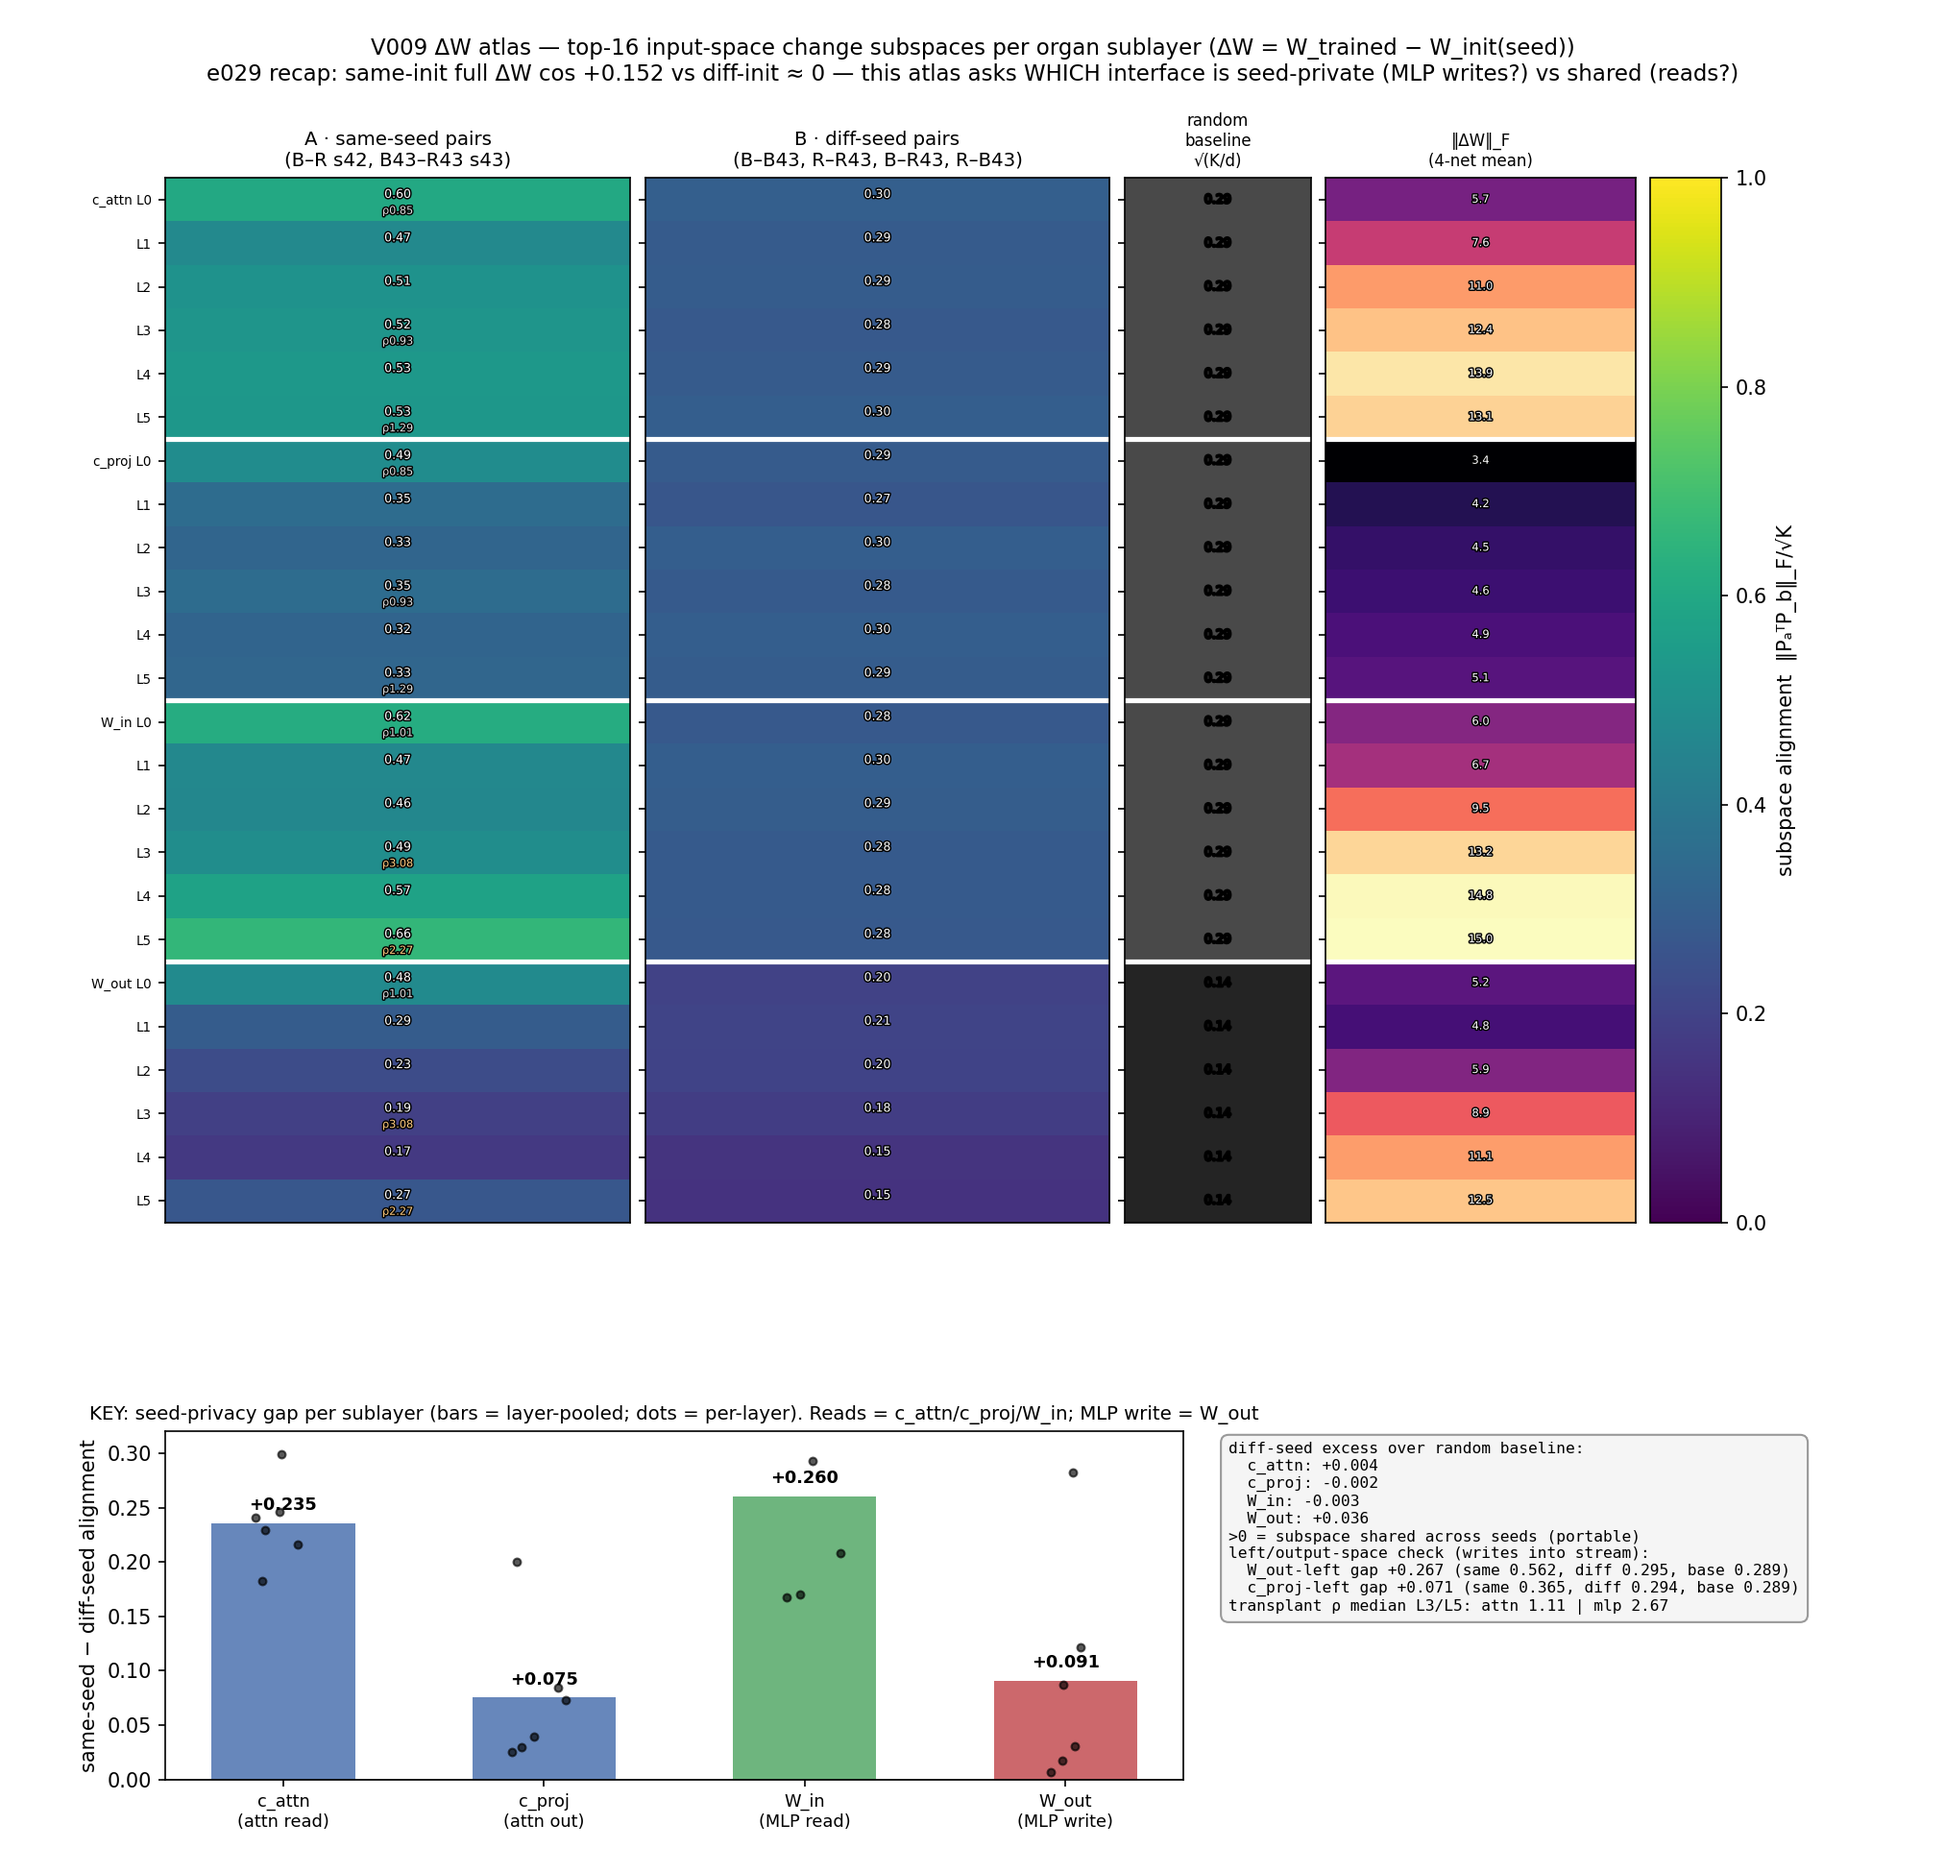
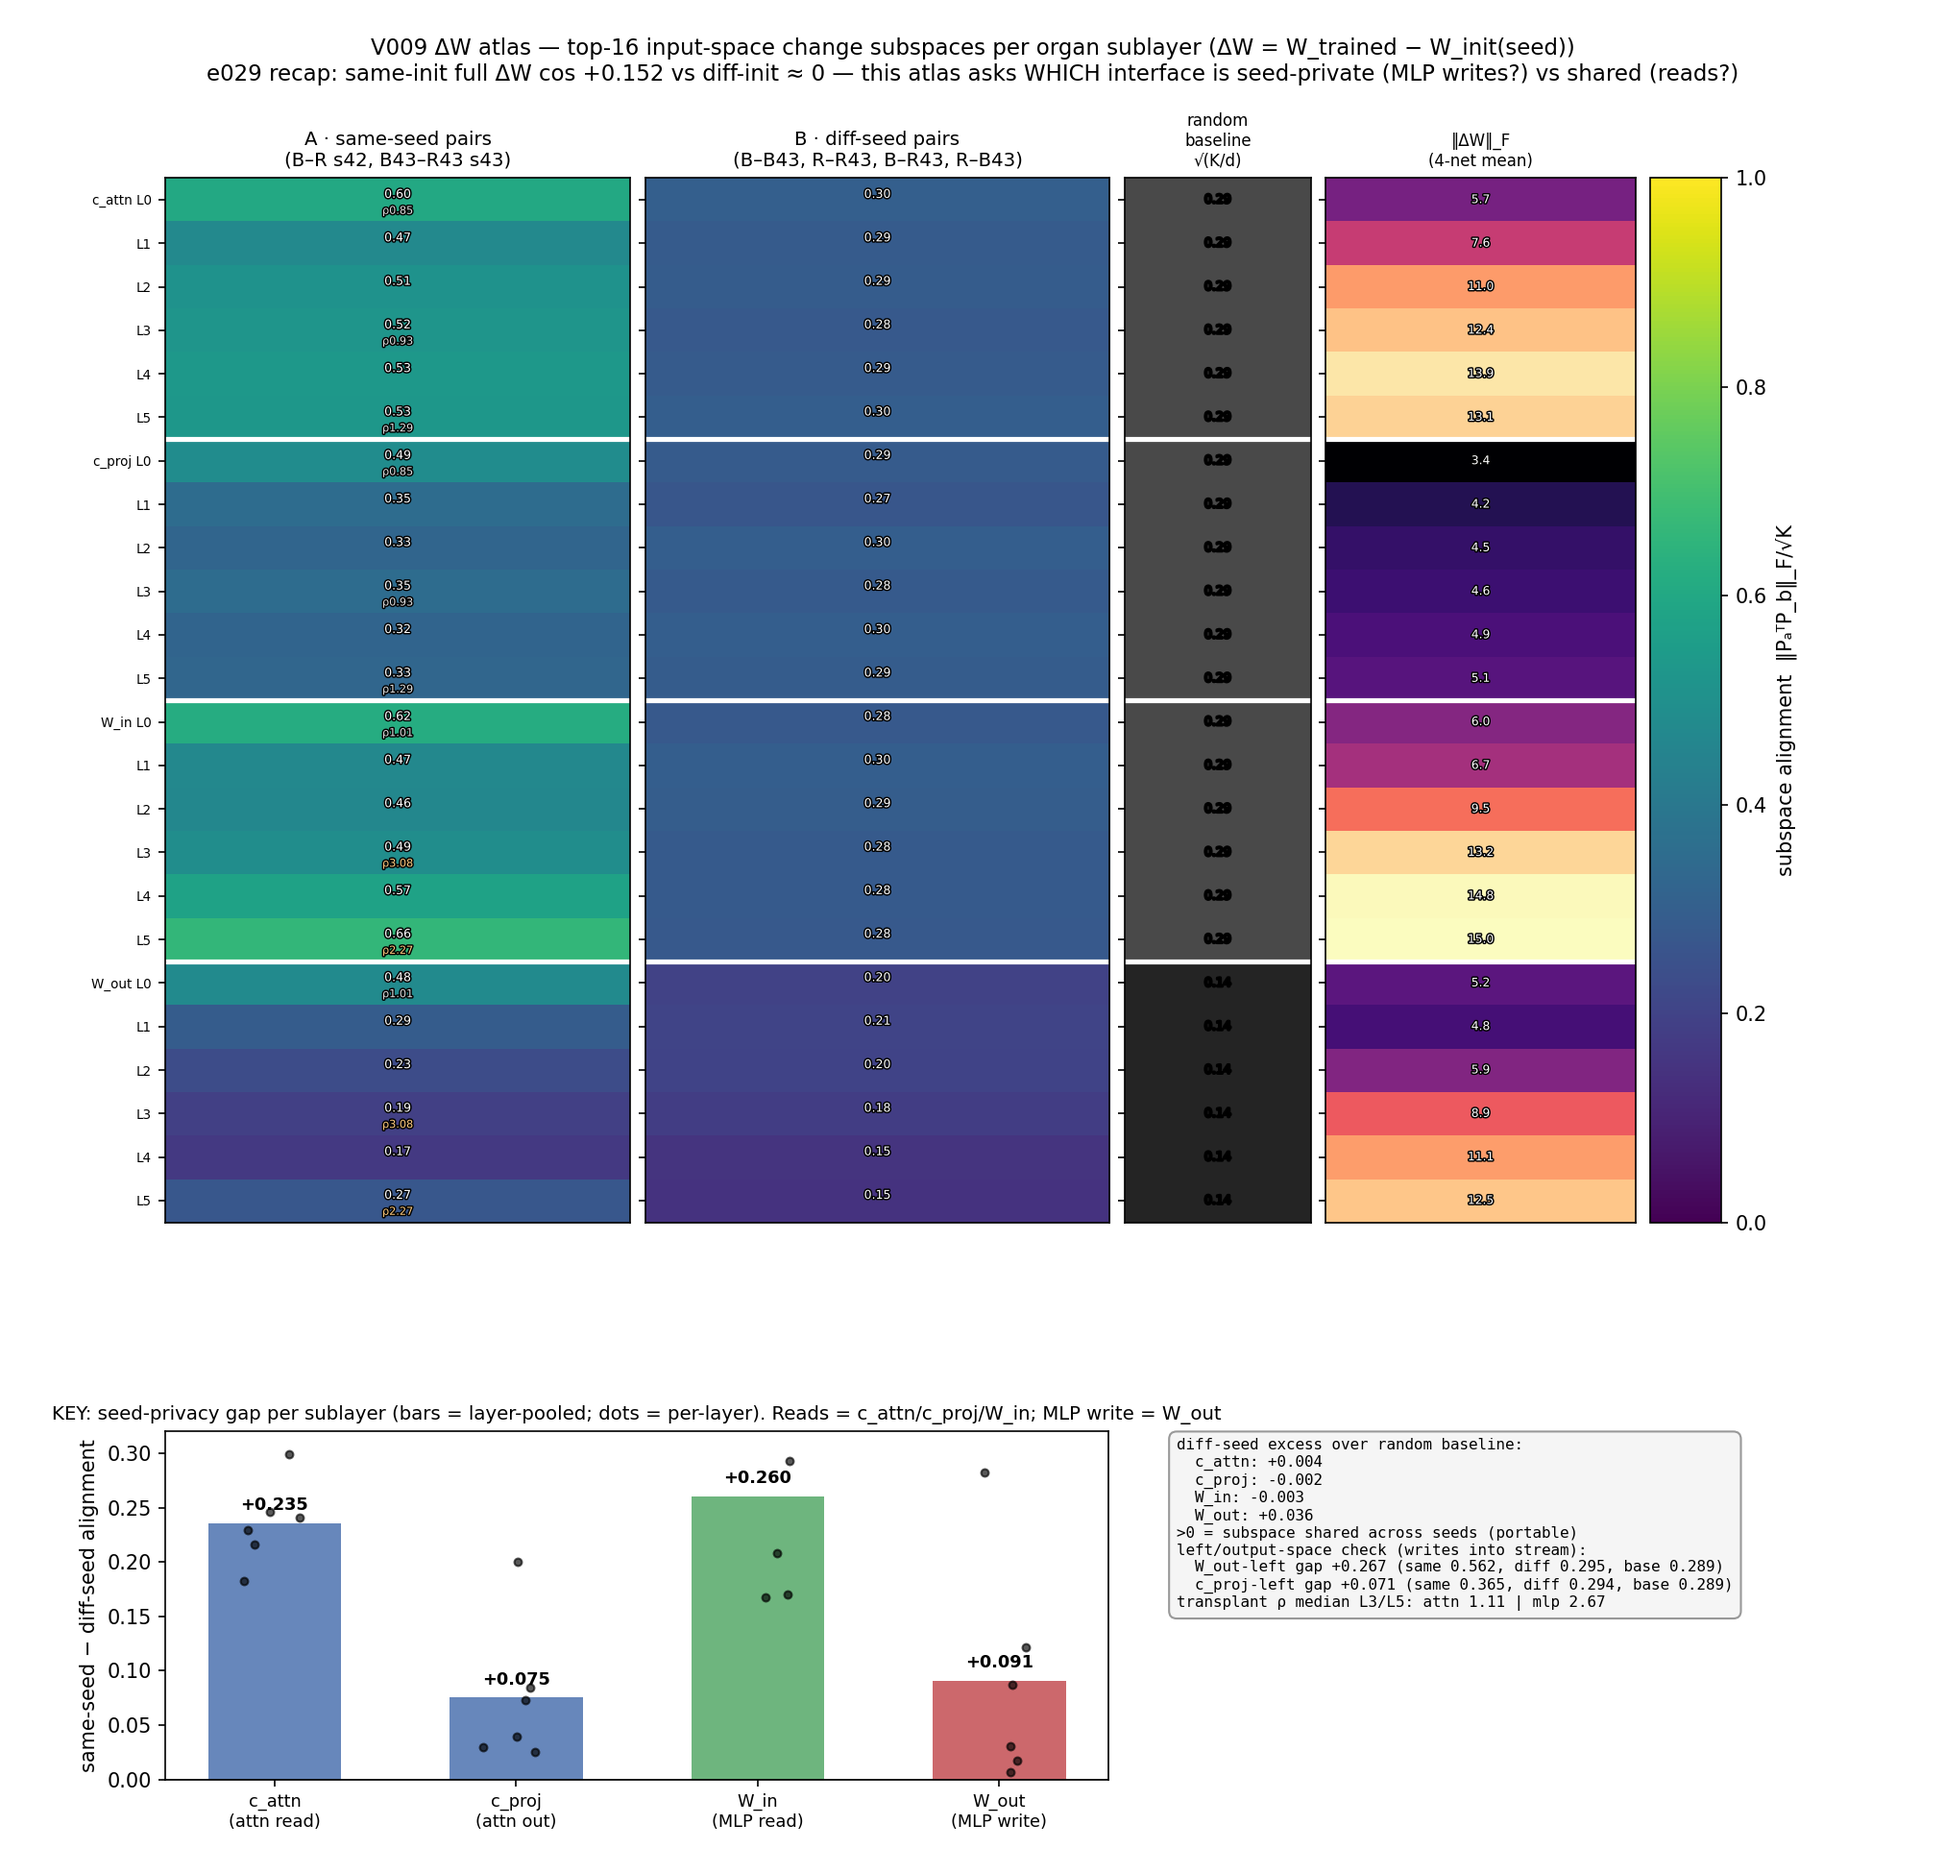
V009 amendment: seed-anchored object is the residual-STREAM basis
- Left-singular supplement reverses half the first reading: W_out-LEFT gap
  +0.267 (MLP stream-writes 3.8x more init-anchored than c_proj-left
  +0.071), tracking e029 transplant rho exactly; W_in-right peaks at L5
  where MLP grafts are most seed-dominant.
- Diff-seed at random floor everywhere: attention portability = weak
  anchoring, not shared subspaces. e031 re-registered (stream-facing
  matrices violent; c_proj mildest).

diff --git a/lab/v009_dw_atlas.py b/lab/v009_dw_atlas.py
@@ -244,7 +244,7 @@ gs_main = fig.add_gridspec(2, 1, height_ratios=[24, 8.0], hspace=0.30,
                            left=0.085, right=0.885, top=0.905, bottom=0.05)
 gs_top = gs_main[0].subgridspec(1, 5, width_ratios=[1.05, 1.05, 0.42, 0.7, 0.16],
                                 wspace=0.05)
-gs_bot = gs_main[1].subgridspec(1, 2, width_ratios=[3.1, 1.5], wspace=0.06)
+gs_bot = gs_main[1].subgridspec(1, 2, width_ratios=[2.9, 1.7], wspace=0.08)
 axA = fig.add_subplot(gs_top[0, 0])
 pe = [pe_mod.withStroke(linewidth=1.4, foreground="black")]  # readable on any bg
 axB = fig.add_subplot(gs_top[0, 1], sharey=axA)
@@ -291,7 +291,7 @@ for i, (s, l) in enumerate(ROWS):
                  color=("#ffcc80" if rho >= 1.5 else "#e0e0e0"), path_effects=pe)
     axR.text(0, i, f"{vb_:.2f}", ha="center", va="center", fontsize=6,
              color="black", path_effects=pe)
-    axD.text(0, i, f"{fro_mean[(s, l)]:.1f}", ha="center", va="center", fontsize=5.5,
+    axD.text(0, i, f"{fro_mean[(s, l)]:.1f}", ha="center", va="center", fontsize=5.9,
              color="white", path_effects=pe)
 
 axA.set_title("A · same-seed pairs\n(B–R s42, B43–R43 s43)", fontsize=9.5)
@@ -333,7 +333,7 @@ txt = ("diff-seed excess over random baseline:\n" +
        f"transplant ρ median L3/L5: attn "
        f"{statistics.mean([rho_med['L3|attn'], rho_med['L5|attn']]):.2f} | mlp "
        f"{statistics.mean([rho_med['L3|mlp'], rho_med['L5|mlp']]):.2f}")
-axT.text(0.0, 0.97, txt, ha="left", va="top", fontsize=7.8, family="monospace",
+axT.text(0.015, 0.98, txt, ha="left", va="top", fontsize=7.6, family="monospace",
          bbox=dict(boxstyle="round,pad=0.5", fc="#f5f5f5", ec="#999999"))
 
 fig.suptitle("V009 ΔW atlas — top-16 input-space change subspaces per organ sublayer "

diff --git a/THINKING.md b/THINKING.md
@@ -355,14 +355,22 @@ Retrieval is task-elicited, not architecturally absent.**
   the pipeline reorganizes around task demands; stage membership is
   task-dependent, stage *existence* is not.
 
-**T008 claim-3 mechanism note (V009, 2026-09-24T13:02Z): candidate
-REFUTED in reverse.** ΔW subspace atlas: same/diff-seed alignment gap is
-largest on the READ side (W_in 0.260, c_attn 0.235) and smallest for W_out
-(0.091; stream-writer subspaces most shared). **Reading directions are
-seed-private; writing directions converge into the common residual
-stream.** e031 REGISTERED with flipped prediction: grafting W_in alone
-across seeds will be violent; W_out alone mild. If confirmed, seed-anchored
-MLP grafts are read-path incompatibilities.
+**T008 claim-3 mechanism note — AMENDED (V009 full report, 2026-09-24T13:10Z):
+the seed-anchored object is the residual-STREAM basis itself.** Right-singular
+(input-space) gaps: reads W_in +0.260 / c_attn +0.235 vs W_out-right +0.091
+(which initially suggested "reads private, writes shared"). But the
+left-singular (stream-space) supplement REVERSES the second half: **W_out-left
+gap +0.267 (same 0.562 / diff 0.295) vs c_proj-left +0.071 — MLP stream-writes
+are 3.8× more init-anchored than attention's**, matching e029's transplant ρ
+(MLP L3/L5 3.08/2.27 vs attn 0.93/1.29); W_in-right peaks at L5 (0.661) where
+MLP grafts are most seed-dominant. And diff-seed alignment sits AT the random
+floor everywhere (excess ≤ +0.04) — attention portability is NOT shared
+subspaces; it is weak anchoring (c_proj barely anchored on both sides).
+Refined mechanism: every stream-FACING interface (reads and MLP writes) is
+init-anchored; MLP hidden space is barely anchored; c_proj is the
+insensitivity exception. **e031 RE-REGISTERED: individual-matrix grafts at
+L3/L5 — W_in and W_out each predicted VIOLENT (stream-facing); c_proj
+predicted MILDEST of the four.**
 
 ## T009 — e021 registration: does a retrieval-required task break the no-retrieval picture? (2026-09-24T12:40Z)
 

diff --git a/NOTES.md b/NOTES.md
@@ -20,11 +20,13 @@ WHAT WE SAW:
   gap is largest on the READ side (W_in 0.260, c_attn 0.235) and smallest
   for MLP W_out (0.091). Diff-seed alignment ≈ random for all reads
   (excess ~0.003); W_out keeps a small positive excess (+0.036).
-- **Reading direction is seed-private; writing directions converge** into
-  the shared 192-d residual stream all nets must use. Stream-writer
-  (left-singular) subspaces are the most cross-seed-aligned.
-- Prediction FLIPPED for e031 (graft organ halves across seeds): W_in alone
-  should be violent, W_out alone mild — the registered discriminator.
+- **AMENDED after full report: the seed-anchored object is the residual-
+  STREAM basis.** MLP stream-writes (W_out-LEFT gap +0.267) are 3.8x more
+  init-anchored than attention's (c_proj-left +0.071) — matching e029's
+  transplant rho. Diff-seed alignment is at the random floor EVERYWHERE
+  (excess <= +0.04): attention portability = weak anchoring, not shared
+  subspaces. e031 re-registered: W_in and W_out grafts each VIOLENT
+  (stream-facing); c_proj mildest.
 
 ## E021 — task-swap: retrieval exists when required; new L4 decision mode (2026-09-24) — DONE
 

diff --git a/QUEUE.md b/QUEUE.md
@@ -41,7 +41,7 @@ prerequisite). Rewritten at Review 1 (2026-09-24T11:20Z) to fix drift.
 
 - v009 ΔW-subspace portability atlas (R2 ideator): SVD per organ, cross-seed principal angles overlaid with transplant ρ
 - e030 Procrustes graft: re-express donor MLP ΔW in host init subspace before grafting
-- e031 READ/WRITE-path split (REGISTERED, flipped): graft W_in alone across seeds (predict VIOLENT) vs W_out alone (predict MILD) — v009 says reads are seed-private
+- e031 stream-facing matrix grafts (REGISTERED v2): graft each matrix (W_in/W_out/c_attn/c_proj) across seeds at L3/L5 — W_in AND W_out predicted VIOLENT (stream-facing), c_proj mildest — stream-basis mechanism
 - e032 MLP-5 per-token census: write norm vs entropy/decision depth (energy pump or ballast?)
 - e033 write-equalizer (bio/homeostasis): train with equal-norm MLP writes; who absorbs the energy?
 - e034 graft-evolution: lineage selected by cross-seed graft damage; does selection erode init-anchoring?
